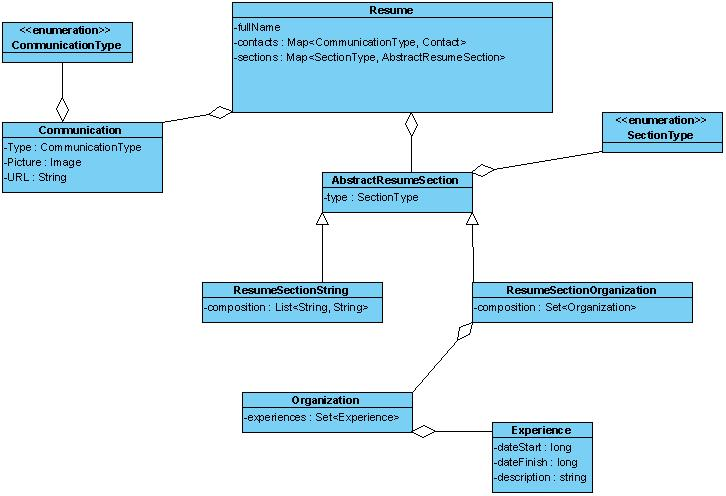
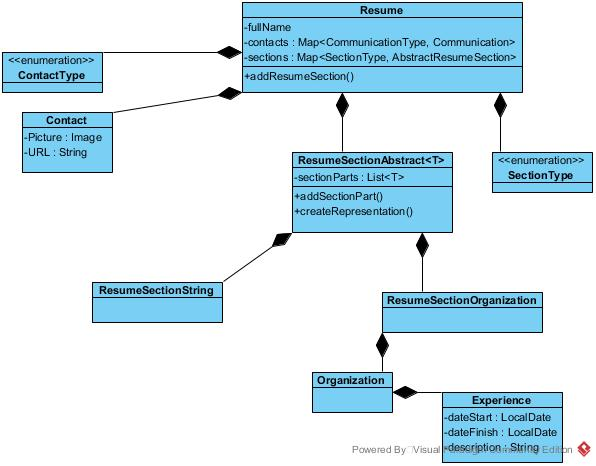
HW6. Refactor Resume, getAllSorted() moved to AbstractStorage. Refactor SortedArrayStorage.

diff --git a/src/com/amstolbov/ResumeTestData.java b/src/com/amstolbov/ResumeTestData.java
@@ -1,0 +1,101 @@
+package com.amstolbov;
+
+import com.amstolbov.model.*;
+
+import java.awt.image.BufferedImage;
+import java.time.LocalDate;
+import java.util.Map;
+
+public class ResumeTestData {
+    public static void main(String[] args) {
+        Resume resume = new Resume("Grigory Kislin");
+
+        ResumeTestData.addContacts(resume);
+        ResumeTestData.addObjective(resume);
+        ResumeTestData.addPersonal(resume);
+        ResumeTestData.addAchievement(resume);
+        ResumeTestData.addQualification(resume);
+        ResumeTestData.addExperience(resume);
+        ResumeTestData.addEducation(resume);
+
+        ResumeTestData.printTest(resume);
+    }
+
+    private static void addContacts(Resume resume) {
+        Contact phone = new Contact(new BufferedImage(1,1,1), "+7(921) 855-0482");
+        resume.addContact(ContactType.PHONE, phone);
+        Contact skype = new Contact(new BufferedImage(1,1,1), "grigory.kislin");
+        resume.addContact(ContactType.SKYPE, skype);
+    }
+
+    private static void addObjective(Resume resume) {
+        ResumeSectionAbstract<String> sectionObjective = new ResumeSectionString();
+        sectionObjective.addSectionPart("Ведущий стажировок и корпоративного обучения по Java Web и Enterprise технологиям");
+        resume.addSection(ResumeSectionType.OBJECTIVE, sectionObjective);
+    }
+
+    private static void addPersonal(Resume resume) {
+        ResumeSectionAbstract<String> sectionPersonal = new ResumeSectionString();
+        sectionPersonal.addSectionPart("Аналитический склад ума, сильная логика, креативность, инициативность. Пурист кода и архитектуры.");
+        resume.addSection(ResumeSectionType.PERSONAL, sectionPersonal);
+    }
+
+    private static void addAchievement(Resume resume) {
+        ResumeSectionAbstract<String> sectionAchievement = new ResumeSectionString();
+        sectionAchievement.addSectionPart("С 2013 года: разработка проектов \"Разработка Web приложения\",\"Java Enterprise\", \"Многомодульный maven. Многопоточность. XML (JAXB/StAX). Веб сервисы (JAX-RS/SOAP). Удаленное взаимодействие (JMS/AKKA)\". Организация онлайн стажировок и ведение проектов. Более 1000 выпускников.");
+        sectionAchievement.addSectionPart("Реализация двухфакторной аутентификации для онлайн платформы управления проектами Wrike. Интеграция с Twilio, DuoSecurity, Google Authenticator, Jira, Zendesk.");
+        sectionAchievement.addSectionPart("Налаживание процесса разработки и непрерывной интеграции ERP системы River BPM. Интеграция с 1С, Bonita BPM, CMIS, LDAP. Разработка приложения управления окружением на стеке: Scala/Play/Anorm/JQuery. Разработка SSO аутентификации и авторизации различных ERP модулей, интеграция CIFS/SMB java сервера");
+        resume.addSection(ResumeSectionType.ACHIEVEMENT, sectionAchievement);
+    }
+
+    private static void addQualification(Resume resume) {
+        ResumeSectionAbstract<String> sectionQualifications = new ResumeSectionString();
+        sectionQualifications.addSectionPart("С 2013 года: разработка проектов \"Разработка Web приложения\",\"Java Enterprise\", \"Многомодульный maven. Многопоточность. XML (JAXB/StAX). Веб сервисы (JAX-RS/SOAP). Удаленное взаимодействие (JMS/AKKA)\". Организация онлайн стажировок и ведение проектов. Более 1000 выпускников.");
+        sectionQualifications.addSectionPart("Реализация двухфакторной аутентификации для онлайн платформы управления проектами Wrike. Интеграция с Twilio, DuoSecurity, Google Authenticator, Jira, Zendesk.");
+        sectionQualifications.addSectionPart("Налаживание процесса разработки и непрерывной интеграции ERP системы River BPM. Интеграция с 1С, Bonita BPM, CMIS, LDAP. Разработка приложения управления окружением на стеке: Scala/Play/Anorm/JQuery. Разработка SSO аутентификации и авторизации различных ERP модулей, интеграция CIFS/SMB java сервера");
+        resume.addSection(ResumeSectionType.QUALIFICATIONS, sectionQualifications);
+    }
+
+    private static void  addExperience(Resume resume) {
+        ResumeSectionAbstract<Organization> jobs = new ResumeSectionOrganization();
+        Organization org1 = new Organization("Java Online Projects");
+        org1.addExperience(LocalDate.of(2014,10,1)
+                , LocalDate.of(2016, 1, 1)
+                , "Java архитектор"
+                , "Организация процесса разработки системы ERP для разных окружений: релизная политика, версионирование, ведение CI (Jenkins), миграция базы (кастомизация Flyway), конфигурирование системы (pgBoucer, Nginx), AAA via SSO. Архитектура БД и серверной части системы. Разработка интергационных сервисов: CMIS, BPMN2, 1C (WebServices), сервисов общего назначения (почта, экспорт в pdf, doc, html). Интеграция Alfresco JLAN для online редактирование из браузера документов MS Office. Maven + plugin development, Ant, Apache Commons, Spring security, Spring MVC, Tomcat,WSO2, xcmis, OpenCmis, Bonita, Python scripting, Unix shell remote scripting via ssh tunnels, PL/Python");
+        jobs.addSectionPart(org1);
+        Organization org2 = new Organization("Luxoft (Deutsche Bank)");
+        org2.addExperience(LocalDate.of(2010,12,1)
+                , LocalDate.of(2012, 4, 1)
+                , "Ведущий программист"
+                , "Участие в проекте Deutsche Bank CRM (WebLogic, Hibernate, Spring, Spring MVC, SmartGWT, GWT, Jasper, Oracle). Реализация клиентской и серверной части CRM. Реализация RIA-приложения для администрирования, мониторинга и анализа результатов в области алгоритмического трейдинга. JPA, Spring, Spring-MVC, GWT, ExtGWT (GXT), Highstock, Commet, HTML");
+        jobs.addSectionPart(org2);
+        resume.addSection(ResumeSectionType.EXPERIENCE, jobs);
+    }
+
+    private static void addEducation(Resume resume) {
+        ResumeSectionAbstract<Organization> educations = new ResumeSectionOrganization();
+        Organization school1 = new Organization("Coursera");
+        school1.addExperience(LocalDate.of(2013,3,1)
+                , LocalDate.of(2013, 5, 1)
+                , ""
+                , "\"Functional Programming Principles in Scala\" by Martin Odersky");
+        educations.addSectionPart(school1);
+        Organization school2 = new Organization("Luxoft");
+        school2.addExperience(LocalDate.of(2011,3,1)
+                , LocalDate.of(2011, 4, 1)
+                , ""
+                , "Курс \"Объектно-ориентированный анализ ИС. Концептуальное моделирование на UML.\"");
+        educations.addSectionPart(school2);
+        resume.addSection(ResumeSectionType.EDUCATION, educations);
+    }
+
+    private static void printTest(Resume resume) {
+        for (Map.Entry<ContactType, Contact> pair : resume.getContacts().entrySet()) {
+            System.out.println(pair.getKey() + "\n" + pair.getValue());
+        }
+        for (Map.Entry<ResumeSectionType, ResumeSectionAbstract> pair : resume.getSections().entrySet()) {
+            System.out.println(pair.getKey() + "\n" + pair.getValue());
+        }
+    }
+}

diff --git a/src/com/amstolbov/model/Resume.java b/src/com/amstolbov/model/Resume.java
@@ -1,17 +1,17 @@
 package com.amstolbov.model;
 
-import java.util.Objects;
-import java.util.UUID;
+import java.util.*;
 
 /**
  * Initial resume class
  */
-//public class Resume implements Comparable<Resume>, Iterable<ResumeSection> {
 public class Resume implements Comparable<Resume> {
 
     // Unique identifier
     private final String uuid;
     private final String fullName;
+    private final Map<ContactType, Contact> contacts;
+    private final Map<ResumeSectionType, ResumeSectionAbstract> sections;
 
     public Resume(String fullName) {
         this(UUID.randomUUID().toString(), fullName);
@@ -22,6 +22,8 @@ public class Resume implements Comparable<Resume> {
         Objects.requireNonNull(fullName, "full name must not be null");
         this.uuid = uuid;
         this.fullName = fullName;
+        this.contacts = new EnumMap<>(ContactType.class);
+        this.sections = new EnumMap<>(ResumeSectionType.class);
     }
 
     public String getUuid() {
@@ -55,5 +57,21 @@ public class Resume implements Comparable<Resume> {
     public int compareTo(Resume o) {
         int comp = fullName.compareTo(o.getFullName());
         return comp != 0 ? comp : uuid.compareTo(o.getUuid());
+    }
+
+    public void addContact(ContactType type, Contact contact) {
+        this.contacts.put(type, contact);
+    }
+
+    public void addSection(ResumeSectionType type, ResumeSectionAbstract section) {
+        sections.put(type, section);
+    }
+
+    public Map<ContactType, Contact> getContacts() {
+        return contacts;
+    }
+
+    public Map<ResumeSectionType, ResumeSectionAbstract> getSections() {
+        return sections;
     }
 }

diff --git a/src/com/amstolbov/model/Organization.java b/src/com/amstolbov/model/Organization.java
@@ -1,0 +1,50 @@
+package com.amstolbov.model;
+
+import java.time.LocalDate;
+import java.util.ArrayList;
+import java.util.List;
+
+public class Organization {
+    private String name;
+    private List<Experience> experience;
+
+    public Organization(String name) {
+        this.name = name;
+        this.experience = new ArrayList<>();
+    }
+
+    public void addExperience(LocalDate start, LocalDate finish, String position, String descr) {
+        experience.add(new Experience(start, finish, position, descr));
+    }
+
+    @Override
+    public String toString() {
+        String res = name;
+        for (Experience exp : experience) {
+            res = res + "\n" + " " + exp;
+        }
+        return res;
+    }
+
+    private class Experience {
+        private final LocalDate dateStart;
+        private final LocalDate dateFinish;
+        private final String position;
+        private final String description;
+
+        public Experience(LocalDate dateStart, LocalDate dateFinish, String position, String descr) {
+            this.dateStart = dateStart;
+            this.dateFinish = dateFinish;
+            this.position = position;
+            this.description = descr;
+        }
+
+        @Override
+        public String toString() {
+            String posToPrint = position.length() == 0 ? "" : " " + position;
+            return String.format("с %s по %s %s \n %s", dateStart, dateFinish, posToPrint, description);
+        }
+
+    }
+
+}

diff --git a/src/com/amstolbov/model/ResumeSectionAbstract.java b/src/com/amstolbov/model/ResumeSectionAbstract.java
@@ -1,0 +1,24 @@
+package com.amstolbov.model;
+
+import java.util.ArrayList;
+import java.util.List;
+
+public abstract class ResumeSectionAbstract<T> {
+    protected final List<T> sectionParts;
+
+    public ResumeSectionAbstract() {
+        this.sectionParts = new ArrayList<>();
+    }
+
+    public void addSectionPart(T sectionPart) {
+        sectionParts.add(sectionPart);
+    }
+
+    @Override
+    public String toString() {
+        return createRepresentation();
+    }
+
+    public abstract String createRepresentation();
+
+}

diff --git a/src/com/amstolbov/model/ResumeSectionType.java b/src/com/amstolbov/model/ResumeSectionType.java
@@ -1,0 +1,20 @@
+package com.amstolbov.model;
+
+public enum ResumeSectionType {
+    PERSONAL("Личные качества"),
+    OBJECTIVE("Позиция"),
+    ACHIEVEMENT("Достижения"),
+    QUALIFICATIONS("Квалификация"),
+    EXPERIENCE("Опыт работы"),
+    EDUCATION("Образование");
+
+    private String title;
+
+    ResumeSectionType(String title) {
+        this.title = title;
+    }
+
+    public String getTitle() {
+        return title;
+    }
+}

diff --git a/src/com/amstolbov/model/Contact.java b/src/com/amstolbov/model/Contact.java
@@ -1,0 +1,27 @@
+package com.amstolbov.model;
+
+import java.awt.*;
+
+public class Contact {
+    private final Image picture;
+    private final String URL;
+
+    public Contact(Image picture, String URL) {
+        this.picture = picture;
+        this.URL = URL;
+    }
+
+    public Image getPicture() {
+        return picture;
+    }
+
+    public String getURL() {
+        return URL;
+    }
+
+    @Override
+    public String toString() {
+        return URL;
+    }
+}
+

diff --git a/src/com/amstolbov/model/ResumeSectionOrganization.java b/src/com/amstolbov/model/ResumeSectionOrganization.java
@@ -1,0 +1,13 @@
+package com.amstolbov.model;
+
+public class ResumeSectionOrganization extends ResumeSectionAbstract<Organization> {
+
+    @Override
+    public String createRepresentation() {
+        String res = "";
+        for (Organization part : sectionParts) {
+            res = res + (res.length() == 0 ? "" : "\n") + " " + part;
+        }
+        return res;
+    }
+}

diff --git a/src/com/amstolbov/model/ContactType.java b/src/com/amstolbov/model/ContactType.java
@@ -1,0 +1,21 @@
+package com.amstolbov.model;
+
+public enum ContactType {
+    PHONE("Phone."),
+    SKYPE("Skype"),
+    EMAIL("email"),
+    LINKEDIN(""),
+    GITHUB(""),
+    STACKOVERFLOW(""),
+    HOME("");
+
+    private String title;
+
+    ContactType(String title) {
+        this.title = title;
+    }
+
+    public String getTitle() {
+        return title;
+    }
+}

diff --git a/src/com/amstolbov/model/ResumeSectionString.java b/src/com/amstolbov/model/ResumeSectionString.java
@@ -1,0 +1,12 @@
+package com.amstolbov.model;
+
+public class ResumeSectionString extends ResumeSectionAbstract<String> {
+
+    public String createRepresentation() {
+        String res = "";
+        for (String part : sectionParts) {
+            res = res + (res.length() == 0 ? "" : "\n") + " - " + part;
+        }
+        return res;
+    }
+}
